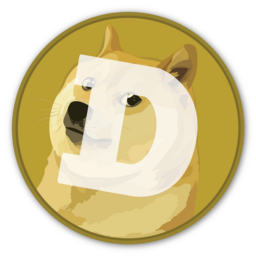
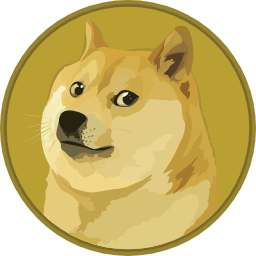
Remove the white D from every coin on the site
Derive web/public/dogecoin-coin.svg from the official Dogecoin Core
logo by dropping its single white D overlay path (class st97), and use
it for every coin (hero, falling/orbiting coins, navbar, badges, cards,
favicon). The wow seal is unchanged. Unused logo files removed.

Claude-Session: https://claude.ai/code/session_01P4YqF1i8J574GZqoEvkor6

diff --git a/web/app/doge.tsx b/web/app/doge.tsx
@@ -3,7 +3,8 @@
 /*
  * Doge artwork. Both images come from the Dogecoin Core repository
  * (github.com/dogecoin/dogecoin, MIT license):
- *  - /dogecoin-logo.svg  share/pixmaps/dogecoin256.svg (official coin logo)
+ *  - /dogecoin-coin.svg  share/pixmaps/dogecoin256.svg (official coin logo) with
+ *                        its white "D" overlay removed — Doge face only
  *  - /doge-wow-seal.png  medallion cropped from src/qt/res/icons/paper_wallet.png
  */
 
@@ -12,7 +13,7 @@
 export function DogeCoin({ size = 48, className }: { size?: number; className?: string }) {
   return (
     <img
-      src="/dogecoin-logo.svg"
+      src="/dogecoin-coin.svg"
       width={size}
       height={size}
       alt="Dogecoin"

diff --git a/README.md b/README.md
@@ -110,7 +110,7 @@ Then set the repo's Actions config (Settings → Secrets and variables → Actio
 
 ## Credits
 
-The Dogecoin logo (`web/public/dogecoin-logo*.png`, `web/app/icon.png`) is taken from the Dogecoin Core repository ([dogecoin/dogecoin](https://github.com/dogecoin/dogecoin), `src/qt/res/icons/dogecoin.png`, MIT license) and used to denote the DOGE currency. Dogecoin is a trademark of its respective owners; this project is not affiliated with or endorsed by the Dogecoin Foundation.
+The Dogecoin coin art (`web/public/dogecoin-coin.svg`, `web/app/icon.png`) is the official logo from the Dogecoin Core repository ([dogecoin/dogecoin](https://github.com/dogecoin/dogecoin), `share/pixmaps/dogecoin256.svg`, MIT license) with its white "D" overlay removed; the "wow" seal (`web/public/doge-wow-seal.png`) is cropped from the same repo's `src/qt/res/icons/paper_wallet.png` and used to denote the DOGE currency. Dogecoin is a trademark of its respective owners; this project is not affiliated with or endorsed by the Dogecoin Foundation.
 
 ## Legal
 
